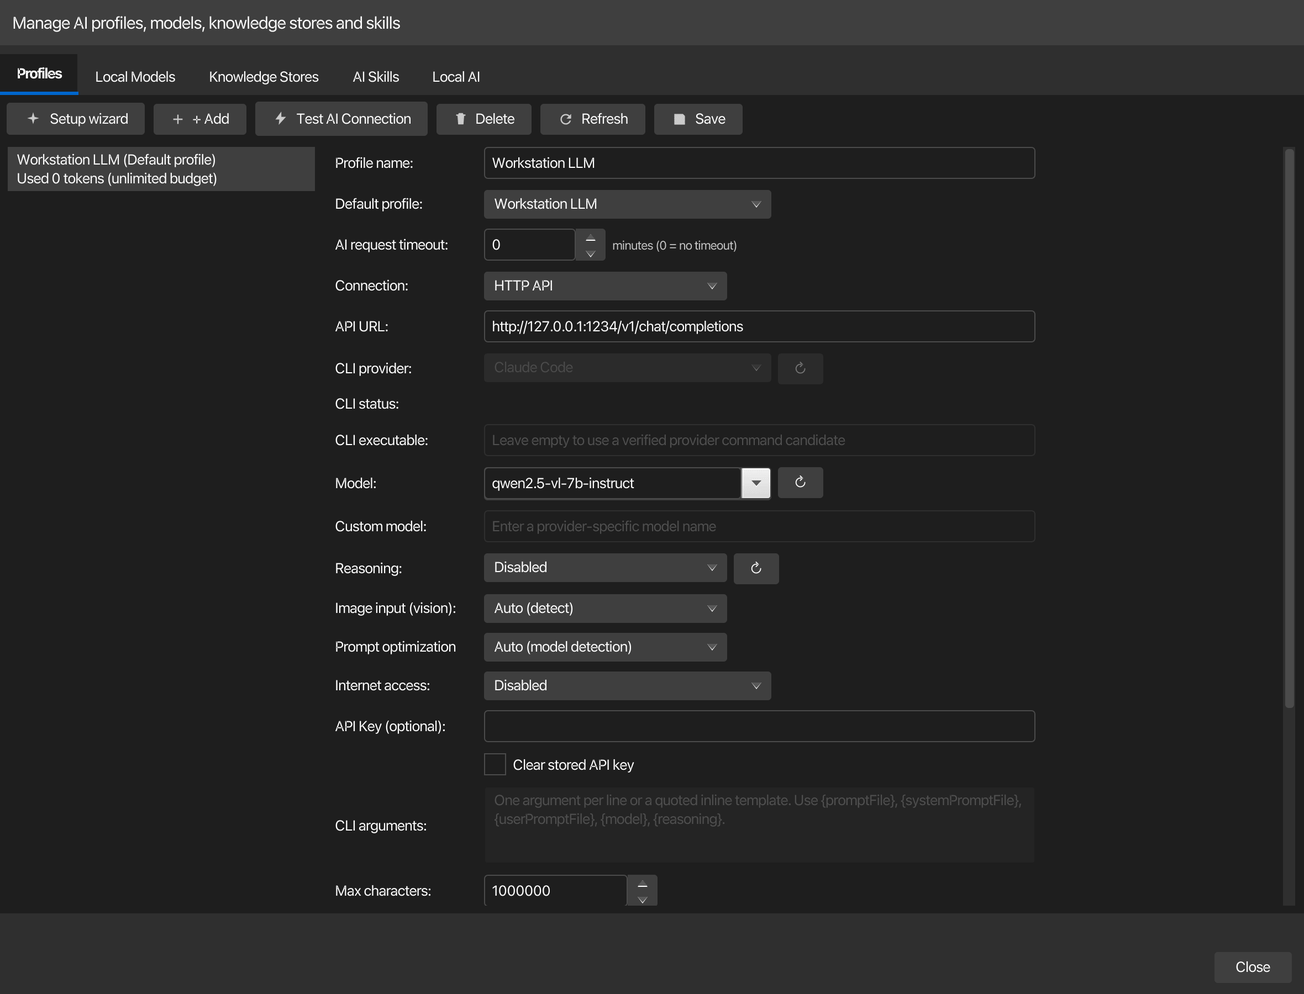
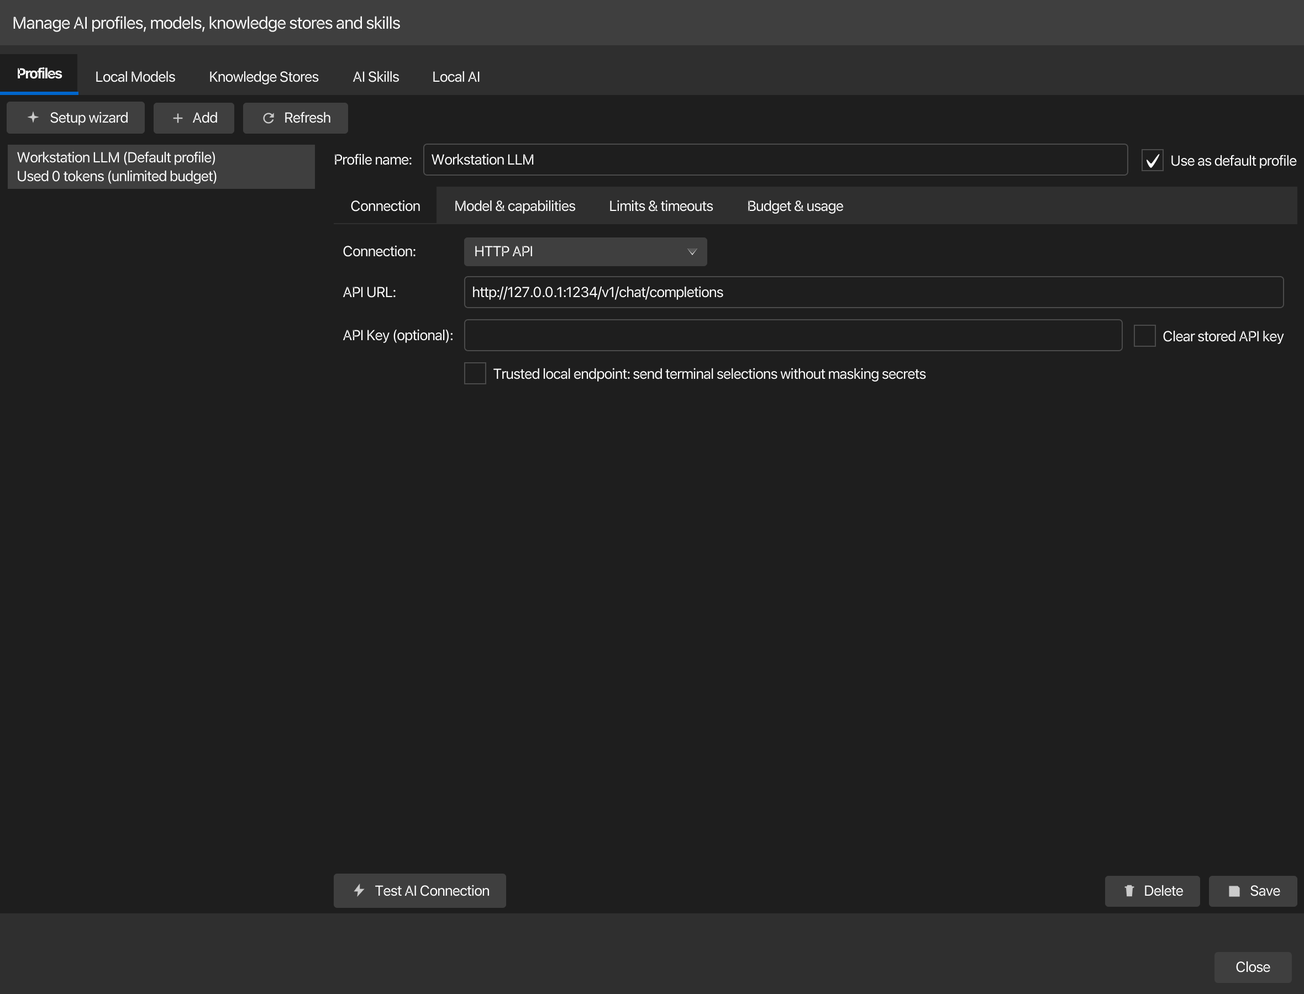
docs: regenerate the AI profiles screenshot and the German guide pages

diff --git a/app-docs/site/docs/de/features/ai-assistant.md b/app-docs/site/docs/de/features/ai-assistant.md
@@ -20,9 +20,9 @@ Wenn **Konfiguration > System-Ruhezustand verhindern** unter macOS oder Windows 
 3. Erstellen Sie ein oder mehrere KI-Profile in **Einstellungen > KI** oder **KI > KI-Manager > Profile**. Wählen Sie **HTTP-API**, **Lokale CLI**, **Integriertes llama.cpp** oder **Integriertes MLX (Apple Silicon)** als Verbindungsmodus.
 4. Für HTTP-Profile geben Sie eine API-URL, ein Modell und optional einen verschlüsselten API-Schlüssel ein. Für ein eingebettetes Profil wählen Sie ein installiertes GGUF-Modell (oder ein installiertes MLX-Modell für **Integriertes MLX**); korTTY stellt den privaten Endpunkt und einen temporären Schlüssel bereit. Verwenden Sie zuerst **KI-Manager > Lokale Modelle**, wenn kein Modell installiert ist.
 5. Konfigurieren Sie optional **Prompt-Optimierung**, **Maximale Zeichen**, **Tokenizer**, **Token limit**, Warnschwellen, den Zyklus für das Zurücksetzen der Tokens, **Preis pro 1 Mio. Tokens** (um die KI-Kosten in Geld anzuzeigen; siehe [Token-Kontingentverwaltung](../reference/settings/ai.md#token-quoten-verwaltung)), den unterstützten **Reasoning**-Aufwand und **Internetzugriff** pro Profil. korTTY zeigt Reasoning-Optionen basierend auf dem konfigurierten Endpunkt und Modell; die exakten nativen Metadaten von LM Studio haben Vorrang vor Kompatibilitätsprüfungen, sodass ein stillschweigend konvertierter Aufwand nicht als unterstützt angezeigt wird. Profile ohne einen explizit unterstützten Reasoning-Modus behalten das provider-standardmäßige Verhalten.
-6. Legen Sie optional ein **Zeitlimit für KI-Anfragen** in Minuten fest. korTTY führt bei KI-Anfragen nicht automatisch zu einer Zeitüberschreitung, daher wird eine lange Aufgabe wie die **Vollständige Codeanalyse** des Snippet-Editors ausgeführt, bis das Modell antwortet. Der Wert auf der Seite **Profile** gilt für jedes Profil; **Zeitlimit für dieses Profil** überschreibt es für ein einzelnes Profil, und 0 bedeutet, dass das Profil nie abläuft. Siehe [KI-Einstellungen](../reference/settings/ai.md).
+6. Optionally set an **AI request timeout** in minutes. korTTY does not time out AI requests on its own, so a long task such as the snippet editor's **Full code analysis** runs until the model answers. The value at the top of the profile editor's **Limits & timeouts** section applies to every profile; **Timeout for this profile** below it overrides it for a single profile, and 0 there means that profile never times out. See [AI settings](../reference/settings/ai.md).
 7. Klicken Sie auf **KI-Verbindung testen**.
-8. Wählen Sie optional ein **Standardprofil** und weisen Sie dann unter **KI-Manager > Lokale KI** separate Text-/Übersetzungs- und Codierungsrollen zu. Eine leere Rolle verwendet das Standardprofil.
+8. Optionally choose a **Default profile** (in the KI-Manager: tick **Use as default profile** next to the profile name), then assign separate Text/translation and Coding roles under **KI-Manager > Local AI > Profile roles**. An empty role uses the default profile.
 9. Konfigurieren Sie optional die Standardsprache für KI-generierten Text in Codekommentaren und Programmausgaben, aktivieren Sie das Feld für zusätzliche Anweisungen für Snippet-KI-Aktionen und legen Sie fest, wie viele alternative Lösungen der Snippet-Editor anfordern soll.
 10. Konfigurieren Sie optional die Größe des Terminal-Agent-Eingabeverlaufs (Standard 20, Bereich 5–100), den Agent-Befehlsnamen, die Befehlsübereinstimmung ohne Berücksichtigung der Groß-/Kleinschreibung, das Ausführungsziel, die Verwendung des Prompt-Hooks, den Einrichtungsdialog pro Ausführung, die Debug-/Laufzeitsichtbarkeit und die Aktivitätsfenstereinstellungen für **AI Agent** und **AI Planning**.
 11. Deaktivieren Sie optional den Bestätigungsdialog für **Zusammenfassen** und **Problem lösen**, wenn Sie einen schnelleren Arbeitsablauf wünschen. **Fragen** öffnet immer den Eingabeaufforderungsdialog.
@@ -36,13 +36,14 @@ So öffnen Sie den Assistenten:
 * **KI > KI-Manager > Profile**, klicken Sie auf **Einrichtungsassistent**.
 * korTTY bietet es auch an, wenn Sie einen KI-Agenten, eine KI-Planung oder ein Agent fragen starten, ohne dass ein nutzbares KI-Profil vorhanden ist.
 
-Der Assistent führt Sie durch:
+A sidebar lists the stages and, under every stage you have passed, the choice you made there; clicking a passed stage goes back to it. The wizard guides you through:
 
-1. **Verbindungsart** - Wählen Sie **Cloud-Dienst (API-Key)**, **Lokaler KI-Server** (z. B. LM Studio oder Ollama, das auf Ihrem Rechner läuft) oder **Lokales Kommandozeilen-Tool** (ein CLI wie Claude Code oder Codex, das bereits installiert ist).
-2. **Anbieter, Server oder Tool** - Für einen Cloud-Dienst wählen Sie OpenAI, Anthropic (Claude), Google Gemini, Mistral, DeepSeek, Groq, OpenRouter, MiniMax oder **Anderer / OpenAI-kompatibel** mit Ihrer eigenen API-URL. Für einen lokalen KI-Server fügen Sie dessen API-URL und optional einen Schlüssel ein, dann wählen Sie **Auto** oder wählen ein Modell. Für ein lokales CLI wählen Sie das Tool; korTTY prüft, ob es installiert ist, und das `lms`-Tool von LM Studio fügt einen Modellauswahl hinzu.
-3. **Schlüssel und Modell** - Für einen Cloud-Dienst geben Sie den API-Key ein, dann wählen oder geben Sie das Modell an; **Modelle laden** fügt die Live-Modellliste des Endpunkts oben auf die Beispiele hinzu. Optional setzen Sie **Reasoning** auf Deaktiviert oder Aktiviert mit einem Level; nur die Levels, die der Endpunkt und das Modell unterstützen, werden angeboten.
-4. **Benennen** - Geben Sie einen Anzeigenamen für das Profil ein; **Machen Sie dieses Profil zum Standardprofil** ist standardmäßig ausgewählt.
-5. **Testen und abschließen** - Der Assistent testet die Verbindung; **Test überspringen** setzt fort, ohne ihn.
+1. **Quick start** - korTTY looks for LM Studio (port 1234) and Ollama (port 11434) on this computer and for installed command-line tools. **Create profile** next to a found server or tool fills in the connection and jumps to the name step; **Search again** repeats the scan. **Cloud service with API key** and **Enter a server or tool yourself** start the manual path.
+2. **Connection type** - Choose **Cloud service (API key)**, **Local AI server** (for example LM Studio or Ollama running on your machine), or **Local command-line tool** (a CLI such as Claude Code or Codex that is already installed). The three choices are cards with a description.
+3. **Provider, server or tool** - For a cloud service, pick a tile: OpenAI, Anthropic (Claude), Google Gemini, Mistral, DeepSeek, Groq, OpenRouter, MiniMax, or **Other / OpenAI-compatible** with your own API URL. For a local AI server, paste its API URL and an optional key, then choose **Auto** or pick a model. For a local CLI, choose the tool; korTTY checks that it is installed, and LM Studio's `lms` tool adds a model picker.
+4. **Access and model** - For a cloud service, enter the API key, then select or enter the model; **Load models** merges the endpoint's live model list on top of the examples. **Advanced: reasoning**, collapsed by default, sets **Reasoning** to Disabled or Enabled with a level; only the levels the endpoint and model support are offered.
+5. **Name it** - Enter a display name for the profile; **Use as default profile** is selected by default.
+6. **Test and finish** - The wizard tests the connection as soon as the step opens and shows the result above a summary of every choice, each with a **Change** link back to its step. **Test again** repeats the test; **Skip test** continues without it.
 
 Native Anthropic (Claude) API-Unterstützung ist neben vorhandenen OpenAI-kompatiblen Endpunkten enthalten.
 
@@ -286,11 +287,11 @@ Der KI-Manager ist ein modales Fenster: Sie können es geöffnet lassen, währen
 
 Der Manager kombiniert Profil, lokale Inferenz, Abruf und Skill-Management:
 
-* **Profile** – KI-Profile erstellen, bearbeiten, testen, speichern und entfernen. Die Profilliste zeigt den aktuellen Kontingent-/Nutzungsstatus für jedes Profil.
+* **Profiles** - Create, edit, test, save, and remove AI profiles. The profile list shows the current quota/usage status for each profile. The editor keeps **Profile name** and **Use as default profile** at the top and groups the fields into four sections: **Connection**, **Model & capabilities**, **Limits & timeouts** and **Budget & usage**. The Connection and Model sections show only the rows of the selected connection mode (the URL and key rows for **HTTP API**, the CLI rows for **Local CLI**, a note for the integrated runtimes). **Setup wizard**, **Add** and **Refresh** act on the list and sit above it; **Test AI Connection**, **Delete** and **Save** act on the selected profile and sit under the editor.
 * **Lokale Modelle** – Hugging Face durchsuchen, GGUF-Dateien importieren/herunterladen/konfigurieren, den Funktionstest nach der Installation ausführen und mehrere llama.cpp-Sidecars starten oder stoppen.
 * **Wissensspeicher** – Erstellen Sie lokale HNSW-Speicher, fügen Sie überprüfte Dateien oder rekursive Ordner hinzu, synchronisieren Sie Quellen und führen Sie eine Testsuche durch.
 * **KI-Skills** - Verwalten Sie die Skill-Bibliothek, wie unter [KI-Skills](#ki-skills) beschrieben.
-* **Lokale KI** - Zuweisen von Text/Übersetzung, Codierung und [Sitzungsjournal](session-journal.md#ki-zusammenfassungen) Profilen, wählen Sie das Einbettungsmodell und die bevorzugte Laufzeit-Backend, speichern Sie ein verschlüsseltes Hugging Face token und wählen Sie die Laufzeit-Aktualisierungsrichtlinie.
+* **Local AI** - Three sections: **Profile roles** assigns the Text/translation, Coding and [session journal](session-journal.md#ki-zusammenfassungen) profiles; **Local runtime** selects the runtime-update policy, the preferred runtime backend and the RAG embedding model; **Hugging Face** stores an encrypted Hugging Face token. **Save** under the sections writes all of them.
 
 Gespeicherte Chats sind kein Tab des KI-Managers. **KI > Gespeicherte Chats...** öffnet sie in einem eigenen Fenster, mit einem **Chats**-Tab für gespeicherte KI-Unterhaltungen und einem **Swarm-Chats**-Tab für gespeicherte [KI-Swarm](ai-swarm.md)-Unterhaltungen, einschließlich der von geplanten Swarm-Jobs erzeugten. Dort können Sie einen Eintrag öffnen, umbenennen, aktualisieren oder löschen.
 

diff --git a/app-docs/site/docs/de/features/local-models.md b/app-docs/site/docs/de/features/local-models.md
@@ -9,7 +9,7 @@ korTTY kann lokale Sprachmodelle direkt über integrierte, modellspezifische Sid
 Öffnen Sie **KI > KI-Manager** und verwenden Sie diese Registerkarten:
 
 - **Local Models** installiert, importiert, konfiguriert, startet, stoppt und entfernt lokale Modellregistrierungen (GGUF überall, zusätzlich MLX auf Apple Silicon).
-- **Lokale KI** weist Profile den Rollen Text/Übersetzung und Codierung sowie den KI-Zusammenfassungen des Sitzungsjournals zu, wählt das RAG-Einbettungsmodell aus, speichert ein optionales Hugging Face-Token und zeichnet die Laufzeitaktualisierungsrichtlinie llama.cpp auf.
+- **Local AI** assigns profiles to the Text/translation and Coding roles and to the session journal's AI summaries (**Profile roles**), selects the RAG embedding model and records the llama.cpp runtime-update policy and preferred backend (**Local runtime**), and stores an optional Hugging Face token (**Hugging Face**).
 - **Profiles** erstellt ein **Integrated llama.cpp**- oder **Integrated MLX (Apple Silicon)**-Profil für ein installiertes Modell und steuert dessen Prompt-Optimierungsvoreinstellung.
 
 Jede Aktionsschaltfläche auf der Registerkarte trägt ein entsprechendes Symbol (Installieren, Assistent, Importieren, Konfigurieren, Als Standard festlegen, Starten, Stoppen, Entfernen, Aktualisieren, Suchen, Weitere laden, Herunterladen, Anhalten, Abbrechen), und die Pausensteuerung wechselt während eines Downloads zwischen den Symbolen „Pause“ und „Fortsetzen“.
@@ -110,7 +110,7 @@ Wählen Sie ein installiertes Modell aus und wählen Sie **Konfigurieren**. Die 
 | GPU-Schichten | -1–10.000; `-1` bedeutet automatisch | automatisch |
 | Entladen nach | 1–1.440 Minuten oder **Niemals** | 10 Minuten |
 
-Das Backend pro Modell beschreibt, wie dieses Modell ausgeführt werden soll. In **KI-Manager > Local AI** steuert **Bevorzugtes Laufzeit-Backend**, welches signierte native Paket installiert und aktualisiert wird: macOS bietet Auto, CPU und Metal; Windows/Linux bieten Auto, CPU und Vulkan. **Automatisch (aktives Backend beibehalten)** behält das bereits aktive Backend bei Aktualisierungen bei. Bei einer Erstinstallation bevorzugt Auto Metal und greift unter macOS auf CPU zurück; unter Windows und Linux bevorzugt es die CPU und greift nur dann auf Vulkan zurück, wenn kein kompatibles CPU-Paket veröffentlicht wird. Ein explizit ausgewähltes Backend erfordert ein exakt kompatibles Paket und wechselt niemals stillschweigend zu einem anderen Backend.
+The per-model backend describes how that model should run. In **KI-Manager > Local AI > Local runtime**, **Preferred runtime backend** controls which signed native package is installed and updated: macOS offers Auto, CPU, and Metal; Windows/Linux offer Auto, CPU, and Vulkan. **Automatic (keep active backend)** preserves the already active backend during updates. For a first installation, Auto prefers Metal and falls back to CPU on macOS; on Windows and Linux it prefers CPU and falls back to Vulkan only when no compatible CPU package is published. An explicitly selected backend requires an exact compatible package and never changes to another backend silently.
 
 Verwenden Sie die Mehrfachauswahl und **Auswahl starten**, um mehrere verschiedene Modelle gleichzeitig zu laden. Profile, die auf dasselbe installierte Modell und dieselbe Laufzeitkonfiguration verweisen, teilen sich einen authentifizierten Sidecar. Die Tabelle meldet `STOPPED`, `STARTING`, `LOADING`, `READY`, `BUSY`, `SLEEPING` oder `FAILED`.
 
@@ -131,7 +131,7 @@ Vom Modell selbst gemeldete Fehler werden ebenfalls protokolliert, sodass eine f
 
 ## Text-, Codierungs-, Übersetzungs- und Einbettungsrollen
 
-Wählen Sie unter **KI-Manager > Lokale KI** separate Profile für **Text und Übersetzung** und **Codierung**. Wenn Sie eine der beiden Optionen auf **Standard-KI-Profil verwenden** belassen, bleibt der normale Fallback erhalten. Derselbe Bereich enthält auch einen **Sitzungsjournalprofil-Selektor**, der nur für die KI-Zusammenfassungen des [Sitzungsjournals](session-journal.md) verwendet wird – die Text-/Codierungsrollen gelten dort nicht; Behalten Sie das Standardprofil bei, es sei denn, das Journal soll auf einem anderen Modell laufen. Terminalzusammenfassung, Problemlösung, Fragen, Beschreibungen und Übersetzung verwenden die Textrolle; Für die Generierung, Vervollständigung, Analyse, Sicherheitskorrekturen und Workflow-Generierung von Snippets wird die Coding-Rolle verwendet.
+In **KI-Manager > Local AI > Profile roles**, choose separate profiles for **Text and translation** and **Coding**. Leaving either choice at **Use default AI profile** preserves the normal fallback. The same section also holds a **Session journal profile** selector used only for the [session journal](session-journal.md)'s AI summaries — the Text/Coding roles do not apply there; leave it on the default profile unless the journal should run on a different model. Terminal summarization, problem solving, questions, descriptions, and translation use the Text role; snippet generation, completion, analysis, security fixes, and workflow generation use the Coding role.
 
 Die Profilauflösung folgt der spezifischsten verfügbaren Auswahl: einem explizit ausgewählten Profil, dann ggf. einem sicherheitsspezifischen Profil oder Verbindungsprofil, dann der Text-/Codierungsrolle und dann dem Standardprofil. Der gleiche Rollenmechanismus funktioniert mit eingebetteten, Remote-HTTP- oder lokalen CLI-Profilen; Eine Rolle erzwingt kein lokales Modell.
 
@@ -217,7 +217,7 @@ Die Tabelle **Laufzeiten** in **Lokale Modelle** zeigt die installierte Version 
 : Der GGUF bleibt registriert, sodass Sie ihn einsehen können. Bestätigen Sie, dass das passende signierte Laufzeit-Backend aktiv ist, reduzieren Sie den Modellkontext oder die GPU-Ebenen, wenn der Speicher knapp ist, und versuchen Sie es erneut, indem Sie das Modell starten. Einbettungstests erfordern zusätzlich lesbare GGUF-Einbettungsdimensionsmetadaten.
 
 **Ein geschlossenes Hugging Face-Repository gibt einen Autorisierungsfehler zurück**
-: Akzeptieren Sie die Repository-Bedingungen für Hugging Face, entsperren Sie den korTTY-Master-Passwort-Tresor und speichern Sie ein autorisiertes Token unter **KI-Manager > Lokale KI**. Das Token wird nur an den vertrauenswürdigen Hugging Face-Host gesendet, nicht an umgeleitete Speicherhosts.
+: Accept the repository terms on Hugging Face, unlock the korTTY master-password vault, and save an authorized token under **KI-Manager > Local AI > Hugging Face**. The token is sent only to the trusted Hugging Face host, not to redirected storage hosts.
 
 **Ein Download kann nicht fortgesetzt werden**
 : Wenn sich das ETag oder die unveränderlichen Dateimetadaten des Repositorys geändert haben, startet korTTY diese Datei neu, anstatt inkompatible Bytes anzuhängen. Bei einer Prüfsummenabweichung wird die ungültige Teildatei gelöscht.

diff --git a/app-docs/site/docs/de/reference/settings/ai.md b/app-docs/site/docs/de/reference/settings/ai.md
@@ -42,13 +42,22 @@ Konfigurieren von KI-Profilen und Einstellungen für den Terminal-KI-Agent. Dies
 
 Das Security-Check-Profil ist ein spezielles KI-Profil für Snippet-**Security-Check**-Aktionen. Lassen Sie es leer (oder verwenden Sie **Keine**) um das Standardprofil zu verwenden. Es kann ebenfalls direkt im Fenster für das Snippet-Security Check festgelegt werden, und beide Orte teilen dieselbe gemerkte Einstellung.
 
-**Zeitlimit für KI-Anfragen** ist die maximale Laufzeit einer einzelnen KI-Anfrage und gilt für jedes Profil. Der Standardwert `0` bedeutet, dass korTTY kein Zeitlimit vorschreibt: Aufwändige Aufgaben wie die **Vollständige Code-Analyse** im Snippet-Editor laufen bis der KI-Modell eine Antwort gibt. Legen Sie eine positive Zahl in Minuten fest, um Anfragen zu unterbrechen, die diese Dauer überschreiten. Ein Profil kann den Wert überschreiben — siehe unten unter **Zeitlimit für dieses Profil**.
+**AI request timeout** is the maximum runtime of a single AI request and applies to every profile. The default `0` means korTTY imposes no timeout at all: long-running tasks such as the snippet editor's **Full code analysis** run until the model answers. Set a positive number of minutes to cancel requests that exceed it. A profile can override the value — see **Timeout for this profile** below. In the KI-Manager the global value is the first row of the profile editor's **Limits & timeouts** section.
 
-### Profil-Einstellungen (in Editor-Grid)
+In the KI-Manager the default profile is chosen with the **Use as default profile** check box next to the profile name; one profile is always the default, so ticking the box on another profile moves it.
 
-Die gleichen Felder werden im **KI > KI-Manager > Profile** bearbeitet, wo das gesamte Formular sofort sichtbar ist:
+### Profile Settings (in Editor Sections)
+
+The same fields are edited in **KI > KI-Manager > Profiles**. The editor keeps **Profile name** and **Use as default profile** above four section tabs, and the **Connection** and **Model & capabilities** sections show only the rows that apply to the selected **Connection** mode (the URL and key rows for **HTTP API**, the CLI rows for **Local CLI**, a note for **Integrated llama.cpp** and **Integrated MLX**):
 
 ![KI-Manager profiles tab](../../assets/screenshots/ai/ai-profiles.png)
+
+| Section | Fields |
+| --- | --- |
+| **Connection** | Connection, API URL, Trusted local endpoint, API Key (with **Clear stored API key** beside it), CLI provider, CLI status, CLI executable, CLI arguments |
+| **Model & capabilities** | Model, Custom model, Reasoning, Image input (vision), Prompt optimization, Internet access |
+| **Limits & timeouts** | AI request timeout (applies to every profile, shown first), Max characters, Timeout for this profile, Max output tokens |
+| **Budget & usage** | Tokenizer, Max tokens, Warning thresholds, Reset, Price per 1M tokens, Usage (the quota bar and the usage line) |
 
 | Einstellung | Typ | Werte | Standard | Speichert als |
 | --- | --- | --- | --- | --- |
@@ -117,6 +126,8 @@ Ein explizit ausgewählter oder sicherheitsgeprüfter Profil bleibt am spezifisc
 Der KI-Manager ist moduslos und kann während der Nutzung des Hauptfensters geöffnet bleiben. Ein erneutes Aufrufen des Managers führt dazu, dass der gleiche Manager für das Hauptfenster wiederhergestellt und gefokussiert wird, und der offene primäre Abschnitt bleibt bei Interaktion mit den Steuerelementen sichtbar mit einem fett unterstrichenen Akzent.
 
 ### Einstellungen des lokalen KI-Managers
+
+**KI > KI-Manager > Local AI** groups these settings on three section tabs: **Profile roles** (the three profile selectors), **Local runtime** (runtime updates, preferred backend, RAG embedding model ID) and **Hugging Face** (the token). **Save** under the sections writes all of them.
 
 | Wert für | Werte | Standard | als gespeichert |
 | --- | --- | --- | --- |

diff --git a/app-docs/site/docs/de/about/release-notes.md b/app-docs/site/docs/de/about/release-notes.md
@@ -19,6 +19,12 @@ Was hat sich in der aktuellen Version geändert? Die Version, für die diese Anl
 - **Mehr Coding-Agenten** — lokale Shell-Tabs erkennen jetzt auch MiniMax Code, Qwen Code, OpenCode, Cursor Agent, Aider, Goose, Crush, Continue, Superagents Grok CLI, xAI's Grok Build, GitHub Copilot CLI, Jules, Amp und Kiro CLI. Die Regeln für Amp und Kiro CLI basieren auf den eigenen Texten der Programme und sind gegen Live-Sitzungen nicht verifiziert. Siehe [Was es erkennt](../features/coding-agents.md#was-erkannt-wird).
 - **Seitenleiste und schnelle Antworten** — die Coding-Agents-Seitenleiste erscheint automatisch bei Erkennung und versteckt sich, wenn keine Agenten mehr vorhanden sind; die ausgewählte Seite wird gespeichert, automatische Sichtbarkeit kann deaktiviert werden, und **Erklären**-Details kollabieren nach 60 Sekunden. **YES** und **NO** senden das komplette Großbuchstabenwort gefolgt von Enter, sodass ein Klick die Antwort übermittelt. Siehe [Coding-Agents](../features/coding-agents.md).
 
+### KI-Manager
+
+- **Profile editor in sections** — the **Profiles** tab keeps the profile name and **Use as default profile** at the top and groups the fields into **Connection**, **Model & capabilities**, **Limits & timeouts** and **Budget & usage**. Only the rows of the selected connection mode are shown, the request timeout that applies to every profile heads the Limits & timeouts section, and **Test AI Connection**, **Delete** and **Save** sit under the editor. See [KI-Manager](../features/ai-assistant.md#ki-manager).
+- **Local AI in sections** — the **Local AI** tab splits into **Profile roles**, **Local runtime** and **Hugging Face**. See [Text, coding, translation, and embedding roles](../features/local-models.md#text-codierungs-ubersetzungs-und-einbettungsrollen).
+- **Profile setup wizard** — a sidebar shows the stages and the choices already made, a **Quick start** finds LM Studio, Ollama and installed command-line tools and offers one-click profiles, connection types and providers are cards, reasoning sits under **Advanced**, and the last step runs the test by itself and shows a summary with **Change** links. See [AI Profile Setup Wizard](../features/ai-assistant.md#ki-profil-setup-assistent).
+
 ### Benachrichtigungen und KI-Skills
 
 - **Messaging-Einstellungen** — Desktop-Benachrichtigungsoptionen haben jetzt eine eigene **Messaging**-Einstellungsseite, einschließlich eines separaten Schalters für Coding-Agent-Nachrichten. Beim Speichern werden die Einstellungen auf offene Sitzungen angewendet. Siehe [Messaging settings](../reference/settings/messaging.md).

diff --git a/app-docs/site/docs/de/features/session-journal.md b/app-docs/site/docs/de/features/session-journal.md
@@ -117,7 +117,7 @@ Während das Journal läuft, liest der KI-Summierer regelmäßig die neuesten Ca
 | Screenshots mit KI analysieren (Beschreibung und Tags) | Journalmanager **Optionen** | auf |
 | Semantische Journalsuche (Einbettungen) | Journalmanager **Optionen** | aus |
 
-Zusammenfassungen verwenden Ihr **Standard-KI-Profil**, es sei denn, Sie wählen ein spezielles Journalprofil aus. Diese Auswahl ist an drei gleichwertigen Stellen verfügbar: im Dialogfeld **Optionen** des Journalmanagers, **Einstellungen > Protokollierung > Sitzungsjournal** und **KI > KI-Manager > Lokale KI** neben den Rollen Text und Codierung. Die Rollenprofile Text/Coding selbst werden bewusst nicht für das Journal verwendet.
+Summaries use your **default AI profile** unless you pick a dedicated journal profile. That choice is available in three equivalent places: the journal manager's **Options** dialog, **Settings > Logging > Session Journal**, and **KI > KI-Manager > Local AI > Profile roles** next to the Text and Coding roles. The Text/Coding role profiles themselves are deliberately not used for the journal.
 
 Wenn Sie **max Zeilen auf 0** setzen, wird auf Kontextfüllung umgeschaltet: Der Zusammenfassungstext packt so viele der neuesten Zeilen, wie in das konfigurierte Token-Budget passen. Wenn **Chunking** aktiviert ist, wird das gesamte Backlog verarbeitet und nicht nur das neueste Fenster – aufeinanderfolgende Fenster der konfigurierten Größe, jeweils eine KI-Eingabeaufforderung.
 
